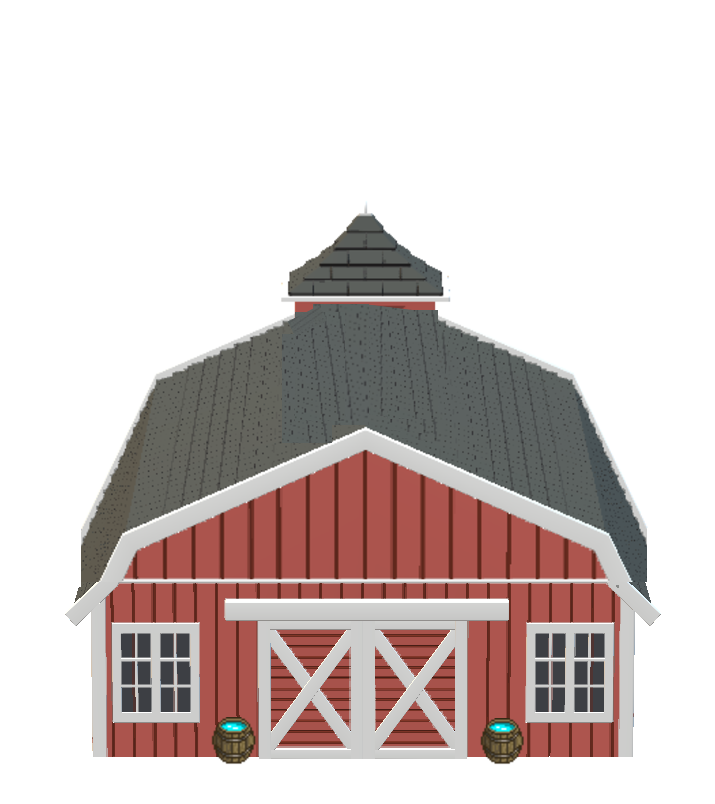
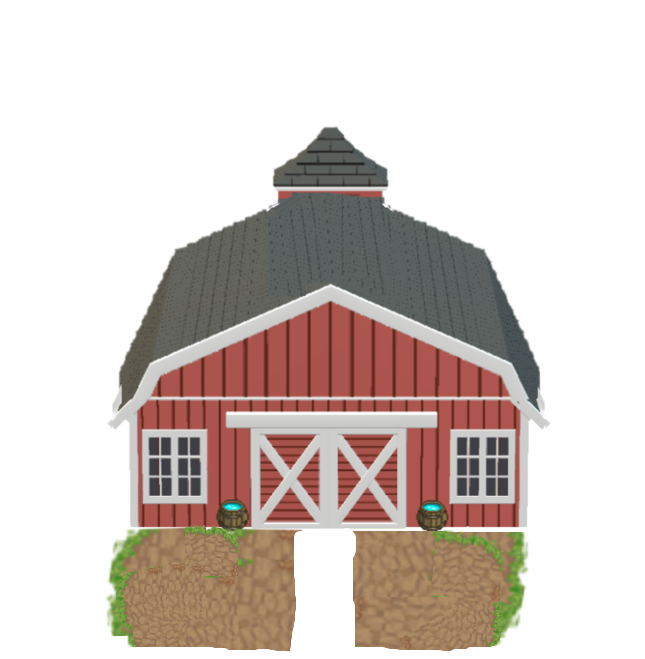
GuiFarm - tollcount auto and anim

diff --git a/GuiFarm/farming_compiled.js b/GuiFarm/farming_compiled.js
@@ -396,13 +396,25 @@ var farming = {
         var c = this;
         goog.events.listen(this, ["mousedown", "touchstart"], function (d) {
             d.event.stopPropagation(); c.state == farming.EMPTY && b.money >= a.costPlowing ?
-                (c.setFill("images/plowed.png"), c.state = farming.PLOWED, b.money -= a.costPlowing, a.updateMoney())
+                (c.setFill("images/plowed.png"),
+                    c.state = farming.PLOWED,
+                    b.money -= a.costPlowing,
+                    a.updateMoney()
+                )
                 : c.state == farming.PLOWED && b.money >= a.crops[b.currentCrop].cost ?
-                    (c.setFill("images/growing.png"), c.state = farming.GROWING,
-                        c.crop = b.currentCrop, c.ripeTime = 1E3 * a.crops[b.currentCrop].time_to_ripe, c.deathTime = 1E3 * a.crops[b.currentCrop].time_to_death,
-                        b.money -= a.crops[b.currentCrop].cost, a.updateMoney())
-                    : c.state == farming.READY && (c.setFill("images/bare_land.png"), c.state = farming.EMPTY,
-                        b.money += a.crops[c.crop].revenue, a.updateMoney())
+                    (c.setFill("images/growing.png"),
+                        c.state = farming.GROWING,
+                        c.crop = b.currentCrop,
+                        c.ripeTime = 1E3 * a.crops[b.currentCrop].time_to_ripe,
+                        c.deathTime = 1E3 * a.crops[b.currentCrop].time_to_death,
+                        b.money -= a.crops[b.currentCrop].cost,
+                        a.updateMoney()
+                    )
+                    : c.state == farming.READY && (c.setFill("images/bare_land.png"),
+                        c.state = farming.EMPTY,
+                        b.money += a.crops[c.crop].revenue,
+                        a.updateMoney()
+                    )
         });
         dt = 1E3;
         lime.scheduleManager.scheduleWithDelay(function () {
@@ -539,13 +551,14 @@ farming.start = function () {
     var a = { width: 310, height: 540, tile_size: 30, num_tiles_x: 4, num_tiles_y: 4, landLayer_w: 320, landLayer_h: 388, controlsLayer_w: 320, controlsLayer_h: 75, costPlowing: 0, shop_margin_x: 50, shop_margin_y: 35 },
         b = { money: 300, currentCrop: 0 };
     a.crops = [
-        { name: "Tomatoes  ", cost: 10, revenue: 20, time_to_ripe: 15, time_to_death: 60, image: "tomato.png" },
-        { name: "Lettuce    ", cost: 15, revenue: 30, time_to_ripe: 30, time_to_death: 60, image: "lettuce.png" },
-        { name: "Artichoke  ", cost: 20, revenue: 40, time_to_ripe: 60, time_to_death: 60, image: "artichoke.png" },
-        { name: "Eggplant ", cost: 30, revenue: 60, time_to_ripe: 90, time_to_death: 100, image: "eggplant.png" },
-        { name: "Peppers  ", cost: 40, revenue: 80, time_to_ripe: 120, time_to_death: 140, image: "peppers.png" },
-        { name: "Corn  ", cost: 50, revenue: 100, time_to_ripe: 140, time_to_death: 180, image: "corn.png" }
+        { name: "Tomatoes  ", cost: 10, revenue: 20, time_to_ripe: 15, time_to_death: 60, image: "tomato.png", harvest:"tomato2.png" },
+        { name: "Lettuce    ", cost: 15, revenue: 30, time_to_ripe: 30, time_to_death: 60, image: "lettuce.png", harvest: "lettuce2.png" },
+        { name: "Artichoke  ", cost: 20, revenue: 40, time_to_ripe: 60, time_to_death: 60, image: "artichoke.png", harvest: "artichoke2.png" },
+        { name: "Eggplant ", cost: 30, revenue: 60, time_to_ripe: 90, time_to_death: 100, image: "eggplant.png", harvest: "eggplant2.png" },
+        { name: "Peppers  ", cost: 40, revenue: 80, time_to_ripe: 120, time_to_death: 140, image: "peppers.png", harvest: "peppers2.png" },
+        { name: "Corn  ", cost: 50, revenue: 100, time_to_ripe: 140, time_to_death: 180, image: "corn.png", harvest: "corn2.png" }
     ];
+    
     a.barnyard = [
         { name: "yard", image: "grass.png" },
         { name: "road", image: "vertRoad.png" },
@@ -574,7 +587,20 @@ farming.start = function () {
         { name: "Double Silo Barn", image: "barn5.png" },
         { name: "Pasture", image: "pasture.png" }
     ];
-    
+
+
+    //////////----------------tooltimer---------------------//////
+    dt = 4000;
+    lime.scheduleManager.scheduleWithDelay(function () {
+        player.tools = player.tools + (5);
+        a.updateTools();
+
+
+    }, this, dt)
+
+
+
+
     var c = new lime.Director(document.body, a.width, a.height); c.makeMobileWebAppCapable(); c.setDisplayFPS(!1);
         var d = (new lime.Scene).setRenderer(lime.Renderer.CANVAS),
             e = (new lime.Layer).setAnchorPoint(0, 50),
@@ -597,7 +623,21 @@ farming.start = function () {
 
         var toolCount = (new lime.Label).setText("Tools  " + player.tools).setFontColor("#E8FC08").setPosition(a.controlsLayer_w - 65, a.height - a.controlsLayer_h / 2 + 15);
         f.appendChild(toolCount);
-        a.updateTools = function () { toolCount.setText("Tools:  " + player.tools) };
+        a.updateTools = function () {
+            toolCount.setText("Tools:  " + player.tools); toolCount.setFontColor("#8b008b");
+            toolUpCount.setHidden(false);
+            setTimeout(function () { toolUpCount.setPosition(55, 105); toolUpCount.setOpacity(.6) }, 250);
+            setTimeout(function () { toolUpCount.setPosition(55, 100); toolUpCount.setOpacity(.8) }, 500);
+            setTimeout(function () { toolCount.setFontColor("#E8FC08"); toolUpCount.setFontColor("#E8FC08"); toolUpCount.setPosition(55, 95); toolUpCount.setOpacity(.9) }, 750);
+            setTimeout(function () { toolUpCount.setPosition(55, 90); toolUpCount.setOpacity(.8) }, 1000);
+            setTimeout(function () { toolUpCount.setPosition(55, 85);toolUpCount.setOpacity(.6) }, 1250);
+            setTimeout(function () { toolUpCount.setHidden(true); toolUpCount.setPosition(55, 110); toolUpCount.setOpacity(.2) }, 1500);
+        };
+
+        var toolUpCount = (new lime.Label).setText("+ 5 Tools").setFontWeight(600).setFontColor("#E8FC08").setPosition(55, 110).setOpacity(.4);
+        f.appendChild(toolUpCount);
+        toolUpCount.setHidden(true);
+
         var hh = b.currentCrop;
         var w = (new lime.Label).setText("Planting " + a.crops[0].name ).setFontColor("#E8FC08").setFontSize(12).setPosition(a.controlsLayer_w / 2 +5 , a.height - a.controlsLayer_h / 2 - 26);
         f.appendChild(w);
@@ -624,28 +664,28 @@ farming.start = function () {
         var horizFence1 = (new lime.Sprite).setAnchorPoint(0, 0).setPosition(-4, 35).setSize(315, 30).setFill("images/" + a.barnyard[5].image); e.appendChild(horizFence1)
         var horizRoad = (new lime.Sprite).setAnchorPoint(0, 0).setPosition(0, 436).setSize(320, 25).setFill("images/" + a.barnyard[15].image); e.appendChild(horizRoad)
         var horizFence2 = (new lime.Sprite).setAnchorPoint(0, 0).setPosition(-4, 410).setSize(315, 30).setFill("images/" + a.barnyard[5].image); e.appendChild(horizFence2)
-        var market = (new lime.Sprite).setAnchorPoint(0, 0).setPosition(224, 45).setSize(85, 55).setFill("images/" + a.barnyard[3].image); e.appendChild(market)
+        var market = (new lime.Sprite).setAnchorPoint(0, 0).setPosition(224, 45).setSize(80, 52).setFill("images/" + a.barnyard[3].image); e.appendChild(market)
         var eggplantCrate = (new lime.Sprite).setAnchorPoint(0, 0).setPosition(283, 78).setSize(20, 27).setFill("images/" + a.barnyard[8].image); e.appendChild(eggplantCrate)
         var cornCrate = (new lime.Sprite).setAnchorPoint(0, 0).setPosition(283, 95).setSize(20, 27).setFill("images/" + a.barnyard[9].image); e.appendChild(cornCrate)
         //var shelter = (new lime.Sprite).setAnchorPoint(0, 0).setPosition(35, 48).setSize(18, 65).setFill("images/" + a.barnyard[6].image); e.appendChild(shelter)
         //var shelter3 = (new lime.Sprite).setAnchorPoint(0, 0).setPosition(4, 48).setSize(18, 65).setFill("images/" + a.barnyard[6].image); e.appendChild(shelter3)
         //var shelter2 = (new lime.Sprite).setAnchorPoint(0, 0).setPosition(22, 48).setSize(37, 72).setFill("images/" + a.barnyard[7].image); e.appendChild(shelter2)
                 
-        var forge = (new lime.Sprite).setAnchorPoint(0, 0).setPosition(4, 50).setSize(75, 85).setFill("images/" + a.barnyard[17].image); e.appendChild(forge)
-        var anvil1 = (new lime.Sprite).setAnchorPoint(0, 0).setPosition(64, 82).setSize(22, 22).setFill("images/" + a.barnyard[12].image); e.appendChild(anvil1)
+        var forge = (new lime.Sprite).setAnchorPoint(0, 0).setPosition(4, 52).setSize(84, 99).setFill("images/" + a.barnyard[17].image); e.appendChild(forge)
+        var anvil1 = (new lime.Sprite).setAnchorPoint(0, 0).setPosition(69, 80).setSize(22, 22).setFill("images/" + a.barnyard[12].image); e.appendChild(anvil1)
         var toolTable = (new lime.Sprite).setAnchorPoint(0, 0).setPosition(5, 111).setSize(19, 22).setFill("images/" + a.barnyard[16].image); e.appendChild(toolTable)
-        var barn = (new lime.Sprite).setAnchorPoint(0, 0).setPosition(88.5, 4).setSize(132, 155).setFill("images/" + a.barnlevel[(0)].image); e.appendChild(barn)
+        var barn = (new lime.Sprite).setAnchorPoint(0, 0).setPosition(88.5, 4).setSize(132, 155).setFill("images/" + a.barnlevel[(player.barnLevel - 1)].image); e.appendChild(barn)
 
 
         for (f = 0; f < a.num_tiles_x; f++)
             for (var i = 0; i < a.num_tiles_y; i++){
                
-                var j = (new farming.Land(a, b)).setPosition(f * a.tile_size + 20, i * a.tile_size + 163); e.appendChild(j)
-                var v = (new farming.Land(a, b)).setPosition(f * a.tile_size + 172, i * a.tile_size + 163); e.appendChild(v)
+                var j = (new farming.Land(a, b)).setPosition(f * a.tile_size + 19, i * a.tile_size + 166); e.appendChild(j)
+                var v = (new farming.Land(a, b)).setPosition(f * a.tile_size + 171, i * a.tile_size + 166); e.appendChild(v)
 
-                var u = (new farming.Land(a, b)).setPosition(f * a.tile_size + 20, i * a.tile_size + 296); e.appendChild(u)
+                var u = (new farming.Land(a, b)).setPosition(f * a.tile_size + 19, i * a.tile_size + 296); e.appendChild(u)
                 //u.setHidden(true);
-                var t = (new farming.Land(a, b)).setPosition(f * a.tile_size + 172, i * a.tile_size + 296); e.appendChild(t)
+                var t = (new farming.Land(a, b)).setPosition(f * a.tile_size + 171, i * a.tile_size + 296); e.appendChild(t)
                 //t.setHidden(true);
                 if (player.fields < 2) {
                     u.setHidden(false);
@@ -659,51 +699,58 @@ farming.start = function () {
         var treeUnlockBtn = (new lime.GlossyButton).setColor("#663300").setText("Unlock").setPosition(79, 351).setSize(130, 130).setOpacity(.8);
         var treeUnlockBtn2 = (new lime.GlossyButton).setColor("#663300").setText("Unlock").setPosition(229, 351).setSize(130, 130).setOpacity(.8);
         //var barnUnlockBtn = (new lime.GlossyButton).setColor("#663300").setText("Upgrade").setPosition(140, 95).setSize(70, 30).setOpacity(.8); e.appendChild(barnUnlockBtn)
-        var barnUnlock = (new lime.Label).setAnchorPoint(0, 0).setFontColor("#E8FC08").setPosition(93, 130).setSize(120, 120).setText("Upgrade"); e.appendChild(barnUnlock)
+        var barnUnlock = (new lime.Label).setAnchorPoint(0, 0).setFontColor("#E8FC08").setPosition(115, 85).setSize(80, 140).setFontWeight(600).setText("Upgrade 100 Tools");
+       
+        e.appendChild(barnUnlock)
         if (player.fields < 3) {
             e.appendChild(treeUnlockBtn);
             var trees1 = (new lime.Sprite).setAnchorPoint(0, 0).setPosition(18, 295).setSize(120, 120).setFill("images/" + a.barnyard[13].image); e.appendChild(trees1)
             var treeUnlock1 = (new lime.Label).setAnchorPoint(0, 0).setFontColor("#E8FC08").setPosition(16, 345).setSize(120, 120).setText("Clear the Forest   50 Tools"); e.appendChild(treeUnlock1)
-            
-           
-
         }
         if (player.fields < 4) {
             e.appendChild(treeUnlockBtn2);
             var trees2 = (new lime.Sprite).setAnchorPoint(0, 0).setPosition(172, 295).setSize(120, 120).setFill("images/" + a.barnyard[14].image); e.appendChild(trees2)
             var treeUnlock2 = (new lime.Label).setAnchorPoint(0, 0).setFontColor("#E8FC08").setPosition(172, 345).setSize(120, 120).setText("Clear the Forest   50 Tools"); e.appendChild(treeUnlock2)
-           
-            
         }
         c.replaceScene(d);
-        goog.events.listen(treeUnlockBtn, ["mousedown", "touchstart"], function () {
-            console.log("hit it");
+
+    //event handlers
+        goog.events.listen(treeUnlockBtn, ["mousedown", "touchstart"], function () {            //left field
             if (player.tools >= 50) {
-                console.log("inside If begin");
-                player.fields = player.fields + 1;
-                console.log("fields " + player.fields);
+               player.fields = player.fields + 1;
                 player.tools = player.tools - 50;
-                console.log("tools " + player.tools);
+                console.log("cleared field 3 ");
                 a.updateTools();
-                trees1.setHidden(true);
-                treeUnlock1.setHidden(true);
-                treeUnlockBtn.setHidden(true);        
-                player.barnLevel = 2;
+                trees1.setHidden(true); treeUnlock1.setHidden(true);treeUnlockBtn.setHidden(true);        
                 localStorage.setItem('farm_Player', JSON.stringify(player));
-              
-            }
-            
+              }            
         }, { passive: false });
-        goog.events.listen(barn, ["mousedown", "touchstart"], function () {
+
+        goog.events.listen(treeUnlockBtn2, ["mousedown", "touchstart"], function () {         //right field
+            if (player.tools >= 50) {
+                player.fields = player.fields + 1;
+                player.tools = player.tools - 50;
+                console.log("Cleared field 4 " );
+                a.updateTools();
+                trees2.setHidden(true); treeUnlock2.setHidden(true); treeUnlockBtn2.setHidden(true);
+                localStorage.setItem('farm_Player', JSON.stringify(player));
+            }
+        }, { passive: false });
+
+
+        goog.events.listen(barn, ["mousedown", "touchstart"], function () {                 //barnUpgrades
             console.log("hit it");
             if (player.tools >= 100) {
                 barnUnlock.setHidden(true);
                 //barnUnlockBtn.setHidden(true);
-                player.barnLevel += 1;
+                player.barnLevel = player.barnLevel + 1;
+                console.log("barn level is " + player.barnLevel);
                 player.tools = player.tools - 100;
                 localStorage.setItem('farm_Player', JSON.stringify(player));
                 //player.barnLevel = 2;
                 if (player.barnLevel > 5) { player.barnLevel = 5 };
+                player.tools = player.tools - 100;
+                localStorage.setItem('farm_Player', JSON.stringify(player));
                 if (player.barnLevel == 2) { barn.setFill('images/barn2.png'); };
                 if (player.barnLevel == 3) { barn.setFill('images/barn3.png'); };
                 if (player.barnLevel == 4) { barn.setFill('images/barn4.png'); };
@@ -732,24 +779,30 @@ farming.start = function () {
             l.appendChild(e);
             f = (new lime.GlossyButton).setColor("#133242").setText("Back").setPosition(a.width / 2, a.height - 25).setSize(80, 40);
             e.appendChild(f);
-            goog.events.listen(g, ["mousedown", "touchstart"], function () { c.replaceScene(l) });
+            goog.events.listen(g, ["mousedown", "touchstart"], function () {
+                c.replaceScene(l)
+                for (f = 0; f < (player.barnLevel + 1); f++)
+                    g = (new lime.Sprite).setAnchorPoint(0, 0).setPosition(a.shop_margin_x - 35, (a.shop_margin_y + (a.shop_margin_y + a.tile_size) * f) + (f * 9) - (f * 1)).setFill("images/" + a.crops[f].image).setSize(a.tile_size * 1.3, a.tile_size * 1.3), e.appendChild(g),
+                        i = (new lime.Label).setText(a.crops[f].name + " (" + a.crops[f].time_to_ripe + " days) ").setFontColor("#E8FC08").setFontSize(22).setPosition(a.shop_margin_x + 130, (1.4 * a.shop_margin_y + (a.shop_margin_y + a.tile_size) * f) + (f * 7) - (f * 1)), e.appendChild(i),
+                        i = (new lime.Label).setText("Seeds: $" + a.crops[f].cost + " ").setFontColor("#133242").setFill("#C14825").setFontSize(16).setPosition(a.shop_margin_x + 80, (2.1 * a.shop_margin_y + (a.shop_margin_y + a.tile_size) * f) + ((f * 9) - f)), e.appendChild(i),
+                        i = (new lime.Label).setText("Crops: $" + a.crops[f].revenue + " ").setFontColor("#133242").setFill("#25C12A").setFontSize(16).setPosition(a.shop_margin_x + 190, (2.1 * a.shop_margin_y + (a.shop_margin_y + a.tile_size) * f) + ((f * 9) - f)), e.appendChild(i),
+                        function (y, e) {
+                            goog.events.listen(y, ["mousedown", "touchstart"],
+                                function () {
+                                    b.currentCrop = e; c.replaceScene(d);
+                                    var z = (new lime.Sprite).setAnchorPoint(0, 0).setPosition(a.controlsLayer_w / 2 - (20), a.height - a.controlsLayer_h / 2 - 12).setFill("images/" + a.crops[e].image).setSize(a.tile_size * 1.2, a.tile_size * 1.2);
+                                    w.setText("Planting " + a.crops[e].name);
+                                    d.appendChild(z);
+
+                                })
+                        }(g, f)
+
+
+
+
+            });
             goog.events.listen(f, ["mousedown", "touchstart"], function () { c.replaceScene(d) });
            
-            //for (f = 0; f < a.crops.length; f++)
-            for (f = 0; f < (player.barnLevel +1); f++)
-                g = (new lime.Sprite).setAnchorPoint(0, 0).setPosition(a.shop_margin_x -35, (a.shop_margin_y + (a.shop_margin_y + a.tile_size) * f) + (f * 9) - (f *1)).setFill("images/" + a.crops[f].image).setSize(a.tile_size *1.3, a.tile_size *1.3), e.appendChild(g),
-                    i = (new lime.Label).setText(a.crops[f].name + " (" + a.crops[f].time_to_ripe + " days) ").setFontColor("#E8FC08").setFontSize(22).setPosition(a.shop_margin_x + 130, (1.4 * a.shop_margin_y + (a.shop_margin_y + a.tile_size) * f) + (f * 7) - (f*1) ), e.appendChild(i),
-                    i = (new lime.Label).setText("Seeds: $" + a.crops[f].cost + " ").setFontColor("#133242").setFill("#C14825").setFontSize(16).setPosition(a.shop_margin_x + 80, (2.1 * a.shop_margin_y + (a.shop_margin_y + a.tile_size) * f) + ((f * 9)-f)), e.appendChild(i),
-                    i = (new lime.Label).setText("Crops: $" + a.crops[f].revenue + " ").setFontColor("#133242").setFill("#25C12A").setFontSize(16).setPosition(a.shop_margin_x + 190, (2.1 * a.shop_margin_y + (a.shop_margin_y + a.tile_size) * f) + ((f * 9) - f)), e.appendChild(i),
-                    function (y, e) {
-                        goog.events.listen(y, ["mousedown", "touchstart"],
-                            function () {
-                                b.currentCrop = e; c.replaceScene(d);
-                                var z = (new lime.Sprite).setAnchorPoint(0, 0).setPosition(a.controlsLayer_w / 2 - (20), a.height - a.controlsLayer_h / 2 - 12).setFill("images/" + a.crops[e].image).setSize(a.tile_size * 1.2, a.tile_size * 1.2);
-                                w.setText("Planting " + a.crops[e].name);
-                                d.appendChild(z);
-                               
-                            })
-                    }(g, f)
+          
 
 };
